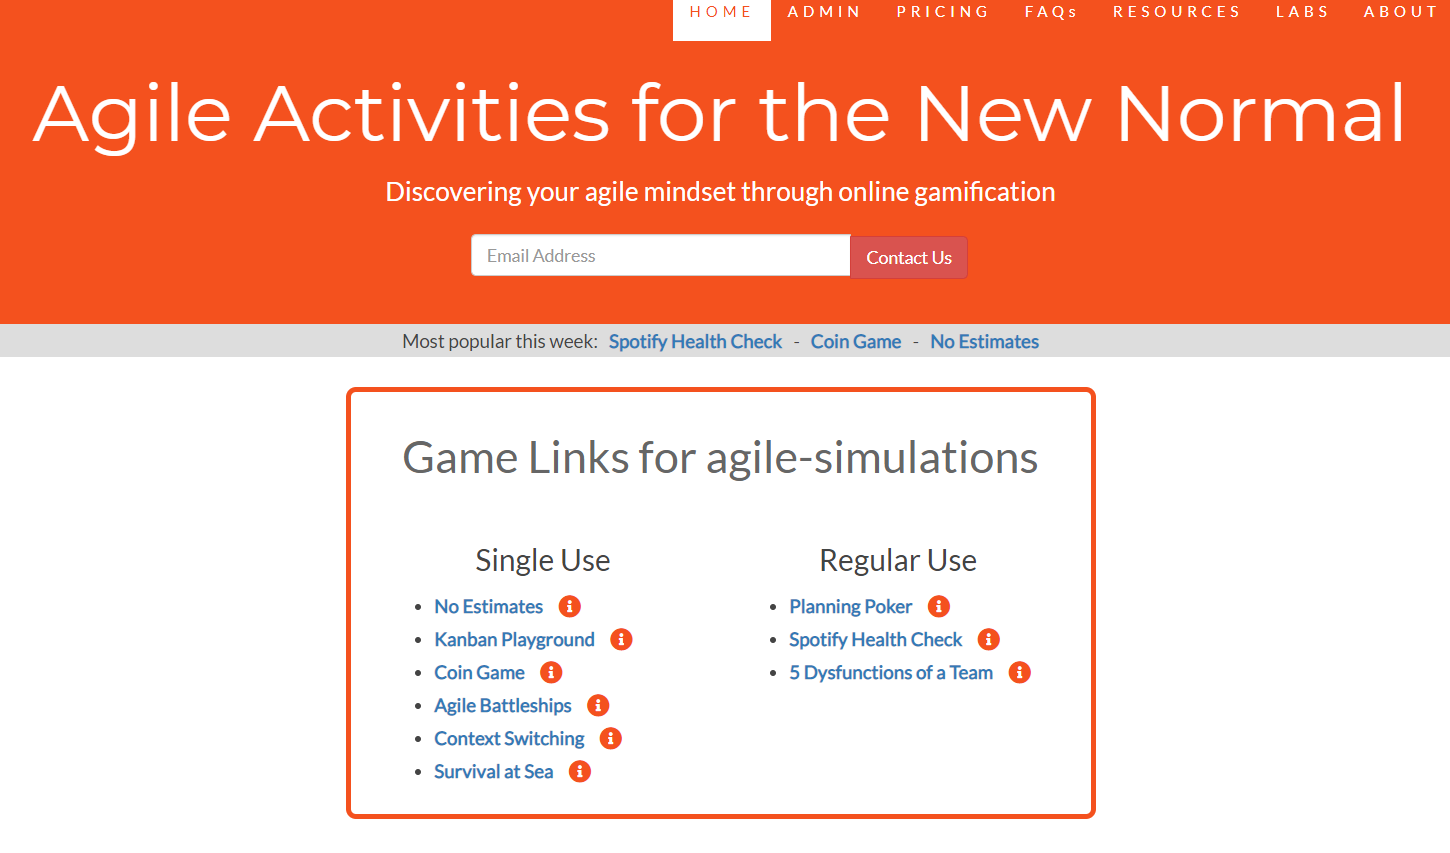
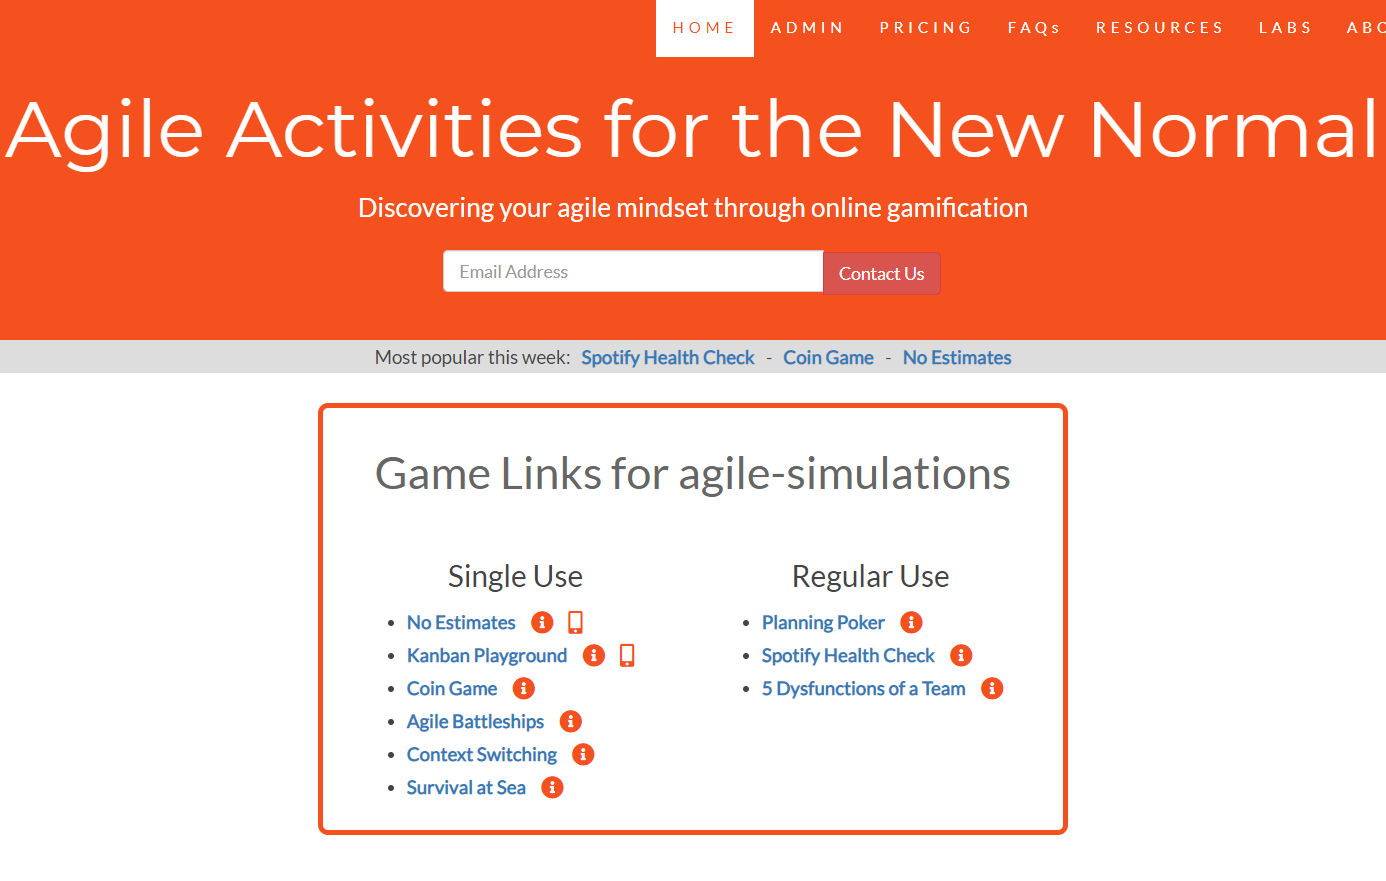
update

diff --git a/src/components/loggedin/Games.vue b/src/components/loggedin/Games.vue
@@ -79,14 +79,21 @@ export default {
   },
   methods: {
     getUrl(link, walkThrough) {
-      let url = this.root + '/' + link.url + '-' + this.route
+      let url = this.root + '/' + link.url
+      if (link.route) {
+        url = url + '-' + this.route
+      }
       if (walkThrough) {
         url = url + '?walkThrough'
       }
       return url
     },
     getMobileUrl(link) {
-      return this.root + '/' + link.mobile + '-' + this.route
+      let url = this.root + '/' + link.mobile
+      if (link.route) {
+        url = url + '-' + this.route
+      }
+      return url
     },
     hasLevel(required) {
       return levels.hasLevel(this.level, required)

diff --git a/src/components/About.vue b/src/components/About.vue
@@ -192,6 +192,9 @@ export default {
       &.pipeline-game {
         background-image: url("../assets/img/updates/pipeline-game.jpg");
       }
+      &.logged-games {
+        background-image: url("../assets/img/updates/loggedin-games.png");
+      }
     }
     padding: 12px 24px;
     .tags {
